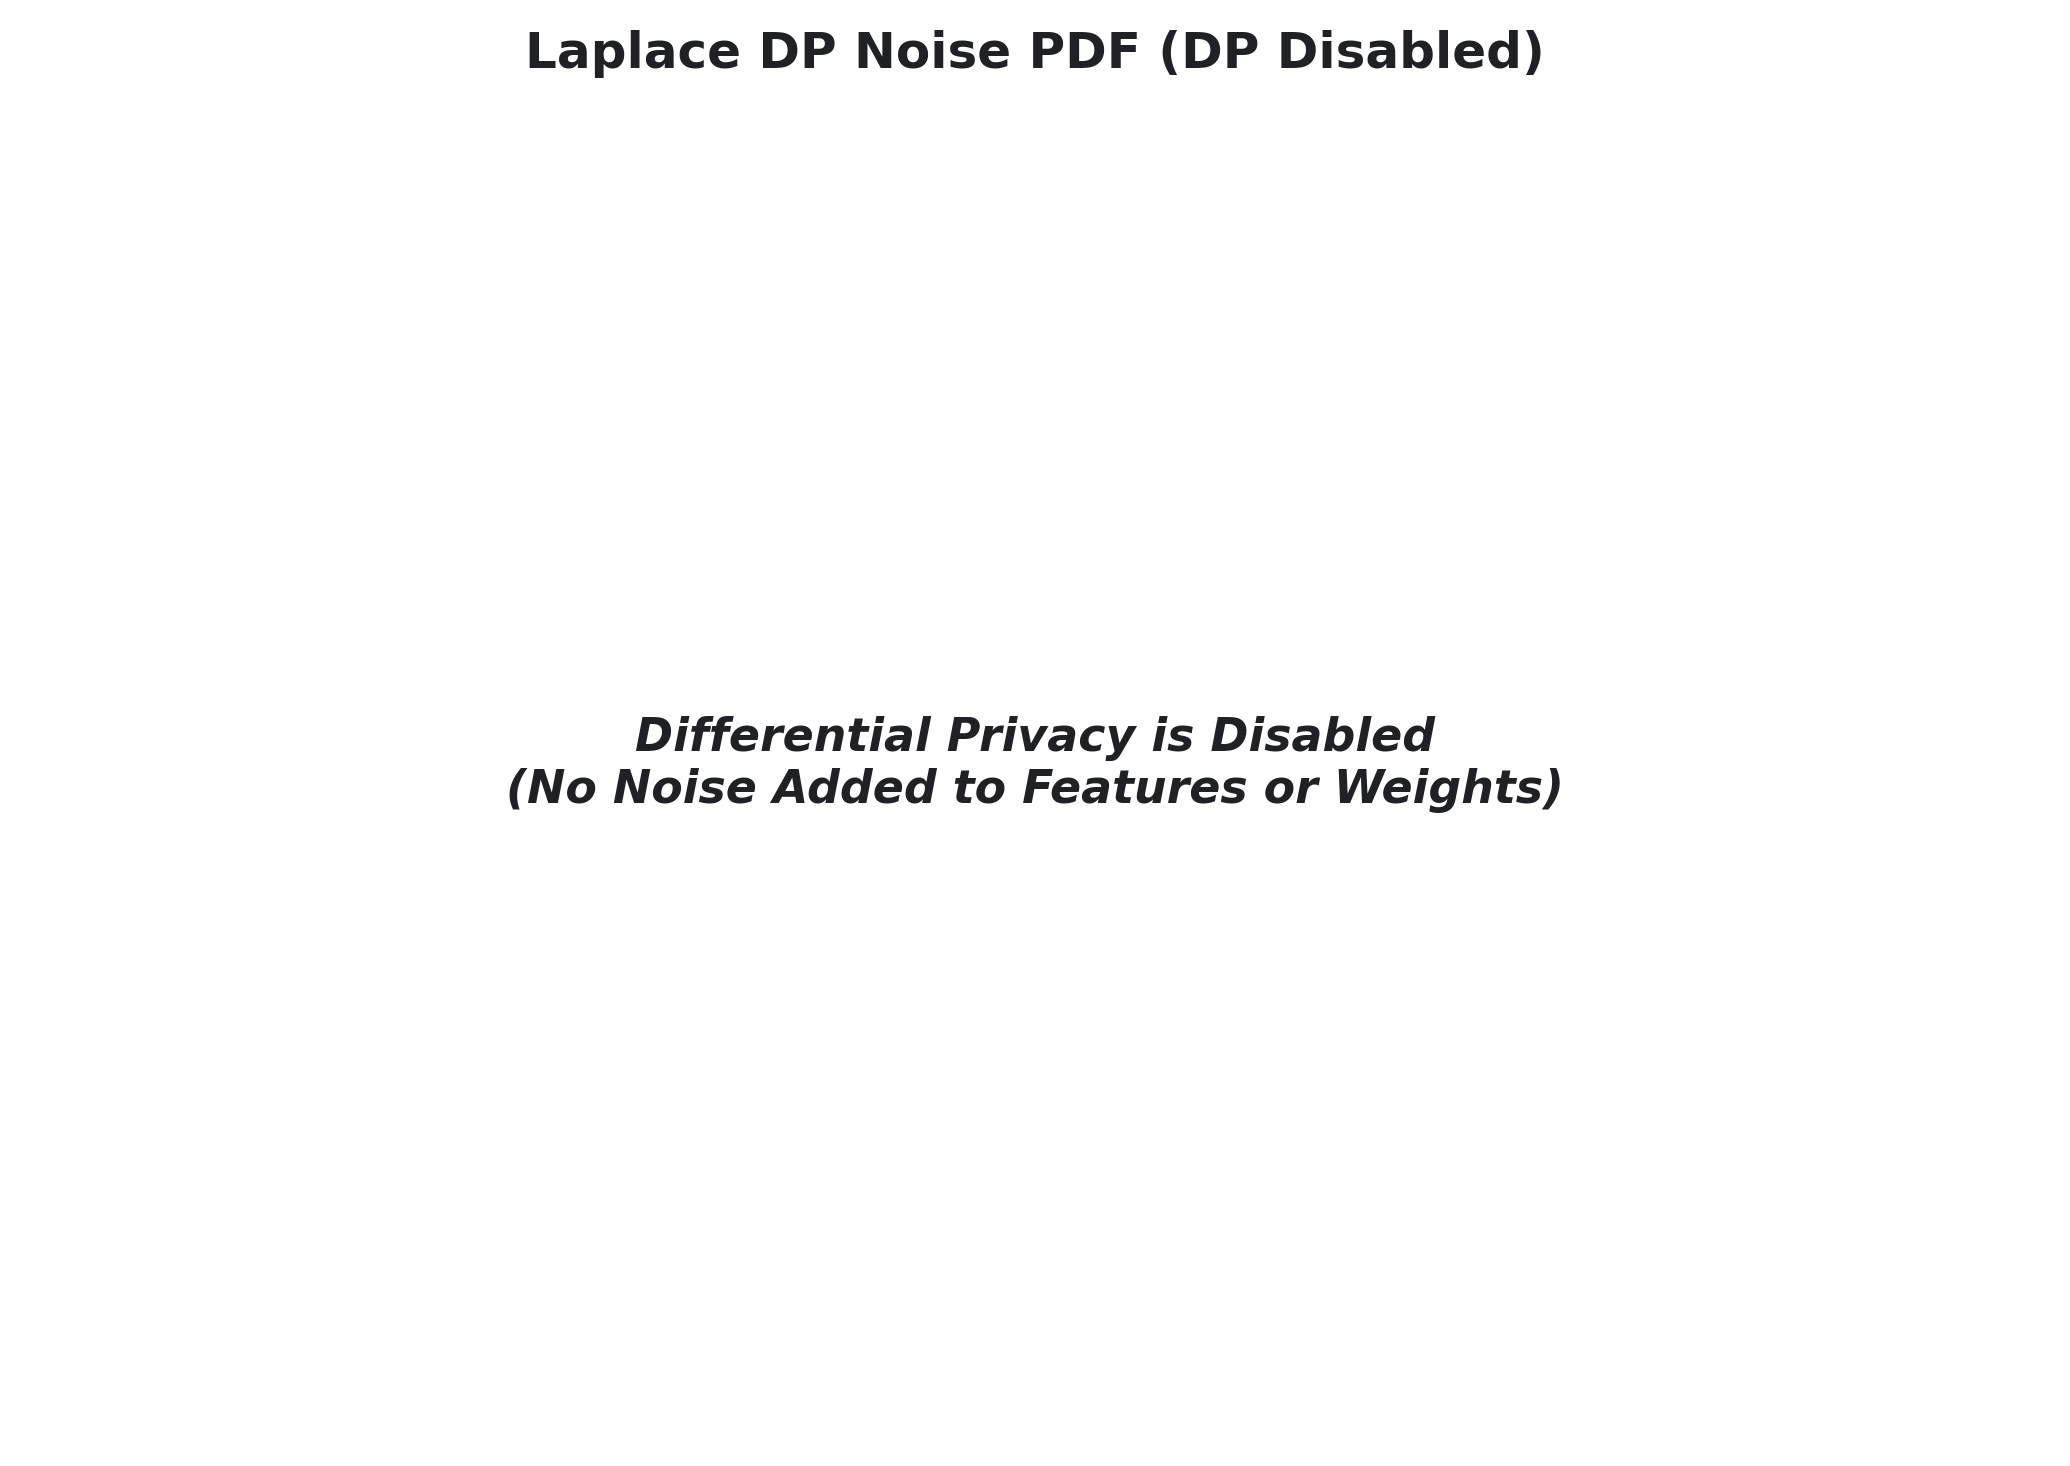
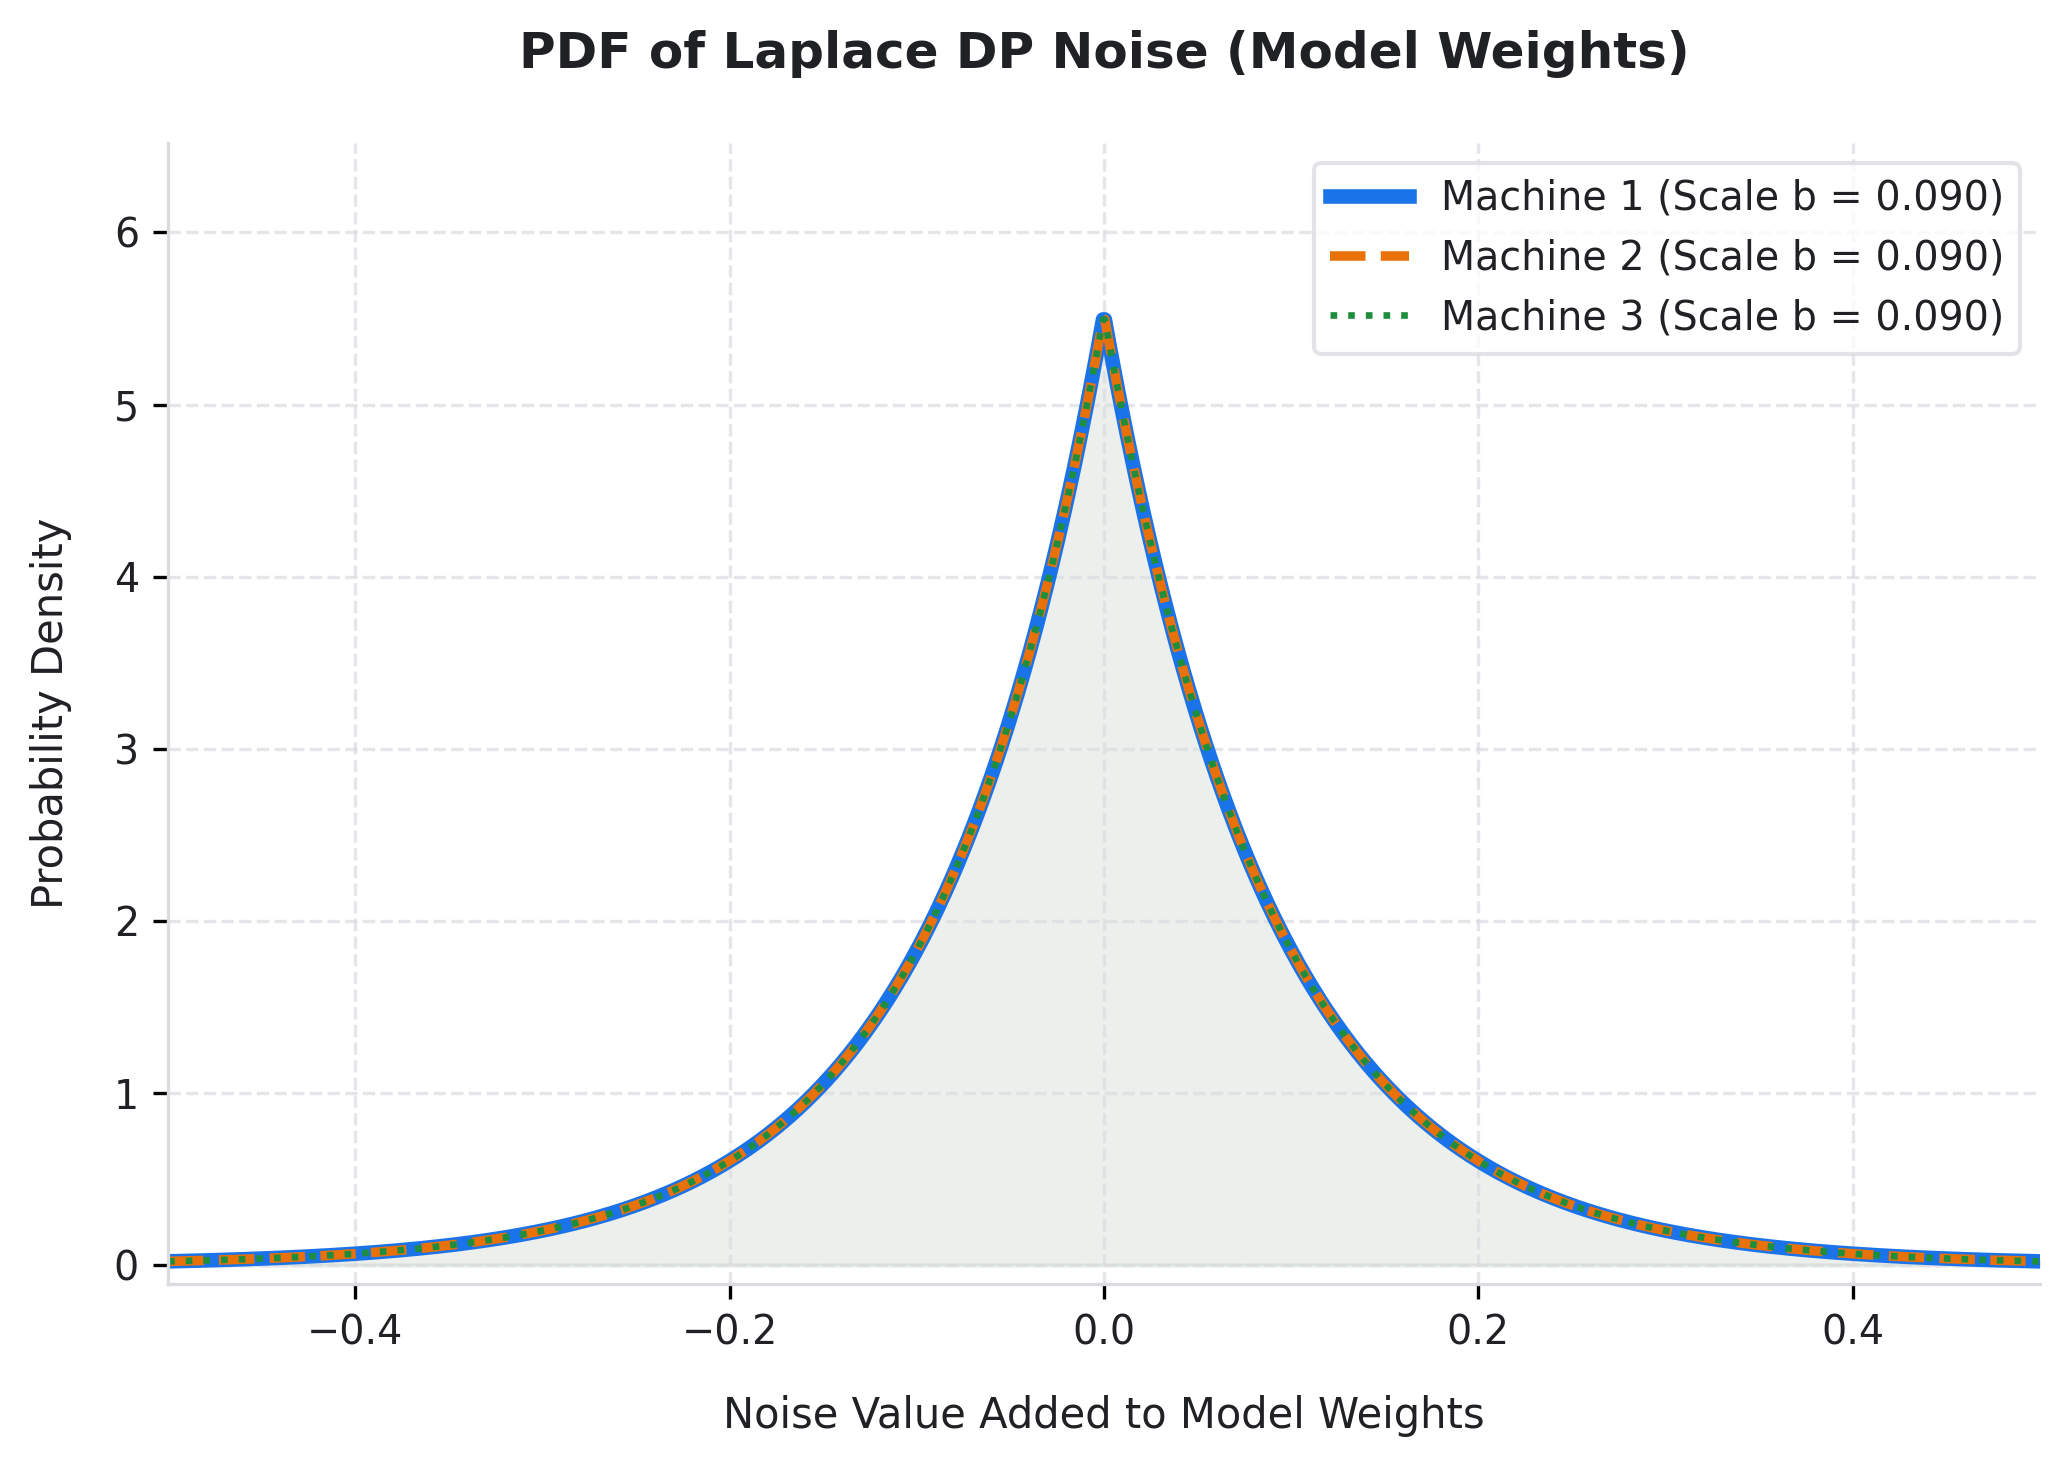
Set default Differential Privacy budget to epsilon = 1.0 across all client scripts, aggregator server, plots, and run.txt benchmark summary

diff --git a/server.py b/server.py
@@ -53,7 +53,7 @@ args, unknown = parser.parse_known_args()
 use_dp = not args.no_dp
 
 if not use_dp:
-    global_epsilon = 0.5  # default value for machine initialization
+    global_epsilon = 1.0  # default value for machine initialization
     print("\nConfiguration:")
     print("  Differential Privacy: Disabled")
     print(f"  Regularization      : L2 (alpha = {ALPHA})\n")
@@ -63,10 +63,10 @@ else:
         global_epsilon = args.epsilon
     else:
         try:
-            user_eps = input("Enter Privacy Budget (Epsilon / epsilon) [default: 0.5]: ").strip()
-            global_epsilon = float(user_eps) if user_eps else 0.5
+            user_eps = input("Enter Privacy Budget (Epsilon / epsilon) [default: 1.0]: ").strip()
+            global_epsilon = float(user_eps) if user_eps else 1.0
         except Exception:
-            global_epsilon = 0.5
+            global_epsilon = 1.0
             
     if global_epsilon <= 0:
         print("Error: Epsilon (privacy budget) must be strictly greater than 0.")

diff --git a/machine1.py b/machine1.py
@@ -20,7 +20,7 @@ ALPHA       = 0.1   # Regularization parameter
 SEED        = 42
 
 class Machine1:
-    def __init__(self, epsilon=0.5, dp_mode="input"):
+    def __init__(self, epsilon=1.0, dp_mode="input"):
         self.epsilon = epsilon
         self.dp_mode = dp_mode
         self.alpha   = ALPHA
@@ -221,7 +221,7 @@ if __name__ == "__main__":
     
     parser = argparse.ArgumentParser(description="Standalone Client Model with Differential Privacy")
     parser.add_argument("--no-dp", action="store_true", help="Run without Differential Privacy")
-    parser.add_argument("-e", "--epsilon", type=float, default=0.5, help="Privacy Budget (Epsilon) [default: 0.5]")
+    parser.add_argument("-e", "--epsilon", type=float, default=1.0, help="Privacy Budget (Epsilon) [default: 1.0]")
     parser.add_argument("--dp-mode", type=str, choices=["input", "output"], default="output", help="DP Perturbation stage: 'input' or 'output'")
     args = parser.parse_args()
     

diff --git a/machine2.py b/machine2.py
@@ -20,7 +20,7 @@ ALPHA       = 0.1   # Regularization parameter
 SEED        = 42
 
 class Machine2:
-    def __init__(self, epsilon=0.5, dp_mode="input"):
+    def __init__(self, epsilon=1.0, dp_mode="input"):
         self.epsilon = epsilon
         self.dp_mode = dp_mode
         self.alpha   = ALPHA
@@ -221,7 +221,7 @@ if __name__ == "__main__":
     
     parser = argparse.ArgumentParser(description="Standalone Client Model with Differential Privacy")
     parser.add_argument("--no-dp", action="store_true", help="Run without Differential Privacy")
-    parser.add_argument("-e", "--epsilon", type=float, default=0.5, help="Privacy Budget (Epsilon) [default: 0.5]")
+    parser.add_argument("-e", "--epsilon", type=float, default=1.0, help="Privacy Budget (Epsilon) [default: 1.0]")
     parser.add_argument("--dp-mode", type=str, choices=["input", "output"], default="output", help="DP Perturbation stage: 'input' or 'output'")
     args = parser.parse_args()
     

diff --git a/machine3.py b/machine3.py
@@ -20,7 +20,7 @@ ALPHA       = 0.1   # Regularization parameter
 SEED        = 42
 
 class Machine3:
-    def __init__(self, epsilon=0.5, dp_mode="input"):
+    def __init__(self, epsilon=1.0, dp_mode="input"):
         self.epsilon = epsilon
         self.dp_mode = dp_mode
         self.alpha   = ALPHA
@@ -221,7 +221,7 @@ if __name__ == "__main__":
     
     parser = argparse.ArgumentParser(description="Standalone Client Model with Differential Privacy")
     parser.add_argument("--no-dp", action="store_true", help="Run without Differential Privacy")
-    parser.add_argument("-e", "--epsilon", type=float, default=0.5, help="Privacy Budget (Epsilon) [default: 0.5]")
+    parser.add_argument("-e", "--epsilon", type=float, default=1.0, help="Privacy Budget (Epsilon) [default: 1.0]")
     parser.add_argument("--dp-mode", type=str, choices=["input", "output"], default="output", help="DP Perturbation stage: 'input' or 'output'")
     args = parser.parse_args()
     

diff --git a/machine.py b/machine.py
@@ -32,17 +32,17 @@ def main():
     print("================================================================")
     print("Standalone Client Execution")
     if not use_dp:
-        global_epsilon = 0.5
+        global_epsilon = 1.0
         print("Differential Privacy: Disabled")
     else:
         if args.epsilon is not None:
             global_epsilon = args.epsilon
         else:
             try:
-                user_eps = input("Enter Privacy Budget (Epsilon) [default: 0.5]: ").strip()
-                global_epsilon = float(user_eps) if user_eps else 0.5
+                user_eps = input("Enter Privacy Budget (Epsilon) [default: 1.0]: ").strip()
+                global_epsilon = float(user_eps) if user_eps else 1.0
             except Exception:
-                global_epsilon = 0.5
+                global_epsilon = 1.0
 
         if global_epsilon <= 0:
             print("Error: Epsilon must be strictly greater than 0.")
